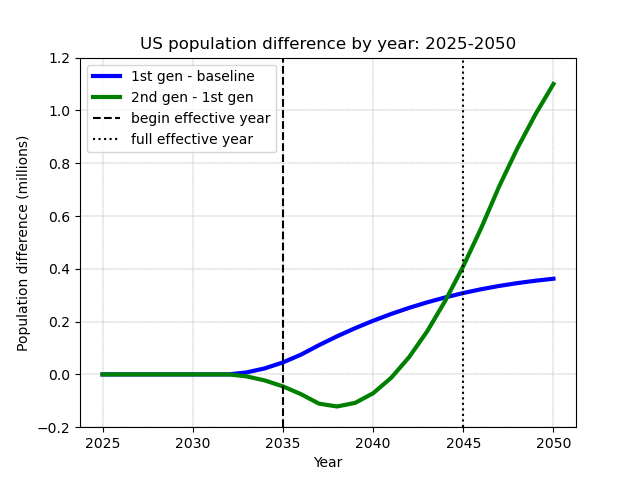
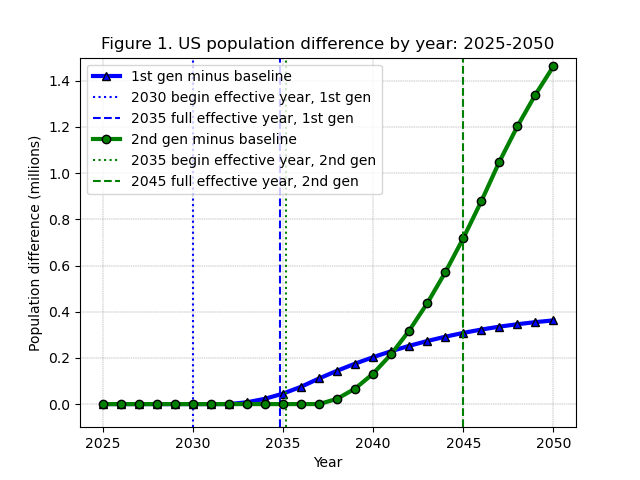
Updated figure code and figure1

diff --git a/Results/figures.py b/Results/figures.py
@@ -83,28 +83,38 @@ tot_pop_2025_2050_2gen = tot_pop_2025_2050_2gen / 1e6
 fig1, ax1= plt.subplots()
 ax1.plot(
     years1, tot_pop_2025_2050_1gen - tot_pop_2025_2050_base, linestyle='-',
-    color='blue', linewidth=3, label='1st gen - baseline'
+    color='blue', marker='^', markeredgecolor='black', linewidth=3,
+    label='1st gen minus baseline'
+)
+ax1.vlines(
+    x=2030, ymin=-0.1, ymax=1.5, color='blue', linestyle=':',
+    label="2030 begin effective year, 1st gen"
+)
+ax1.vlines(
+    x=2034.85, ymin=-0.1, ymax=1.5, color='blue', linestyle='--',
+    label="2035 full effective year, 1st gen"
 )
 ax1.plot(
-    years1, tot_pop_2025_2050_2gen - tot_pop_2025_2050_1gen, linestyle='-',
-    color='green', linewidth=3, label='2nd gen - 1st gen'
+    years1, tot_pop_2025_2050_2gen - tot_pop_2025_2050_base, linestyle='-',
+    color='green', marker='o', markeredgecolor='black', linewidth=3,
+    label='2nd gen minus baseline'
 )
 ax1.vlines(
-    x=2035, ymin=-0.2, ymax=1.2, color='black', linestyle='--',
-    label="begin effective year"
+    x=2035.15, ymin=-0.1, ymax=1.5, color='green', linestyle=':',
+    label="2035 begin effective year, 2nd gen"
 )
 ax1.vlines(
-    x=2045, ymin=-0.2, ymax=1.2, color='black', linestyle=':',
-    label="full effective year"
+    x=2045, ymin=-0.1, ymax=1.5, color='green', linestyle='--',
+    label="2045 full effective year, 2nd gen"
 )
 plt.grid(
     visible=True, which='major', axis='both', color='0.5', linestyle='--',
     linewidth=0.3
 )
-plt.ylim(-0.2, 1.2)
+plt.ylim(-0.1, 1.5)
 plt.xlabel("Year")
 plt.ylabel("Population difference (millions)")
 plt.legend()
-plt.title("US population difference by year: 2025-2050")
+plt.title("Figure 1. US population difference by year: 2025-2050")
 plt.savefig(os.path.join(images_dir, "us_popdiff_2nd1stgen.png"))
 plt.show()
